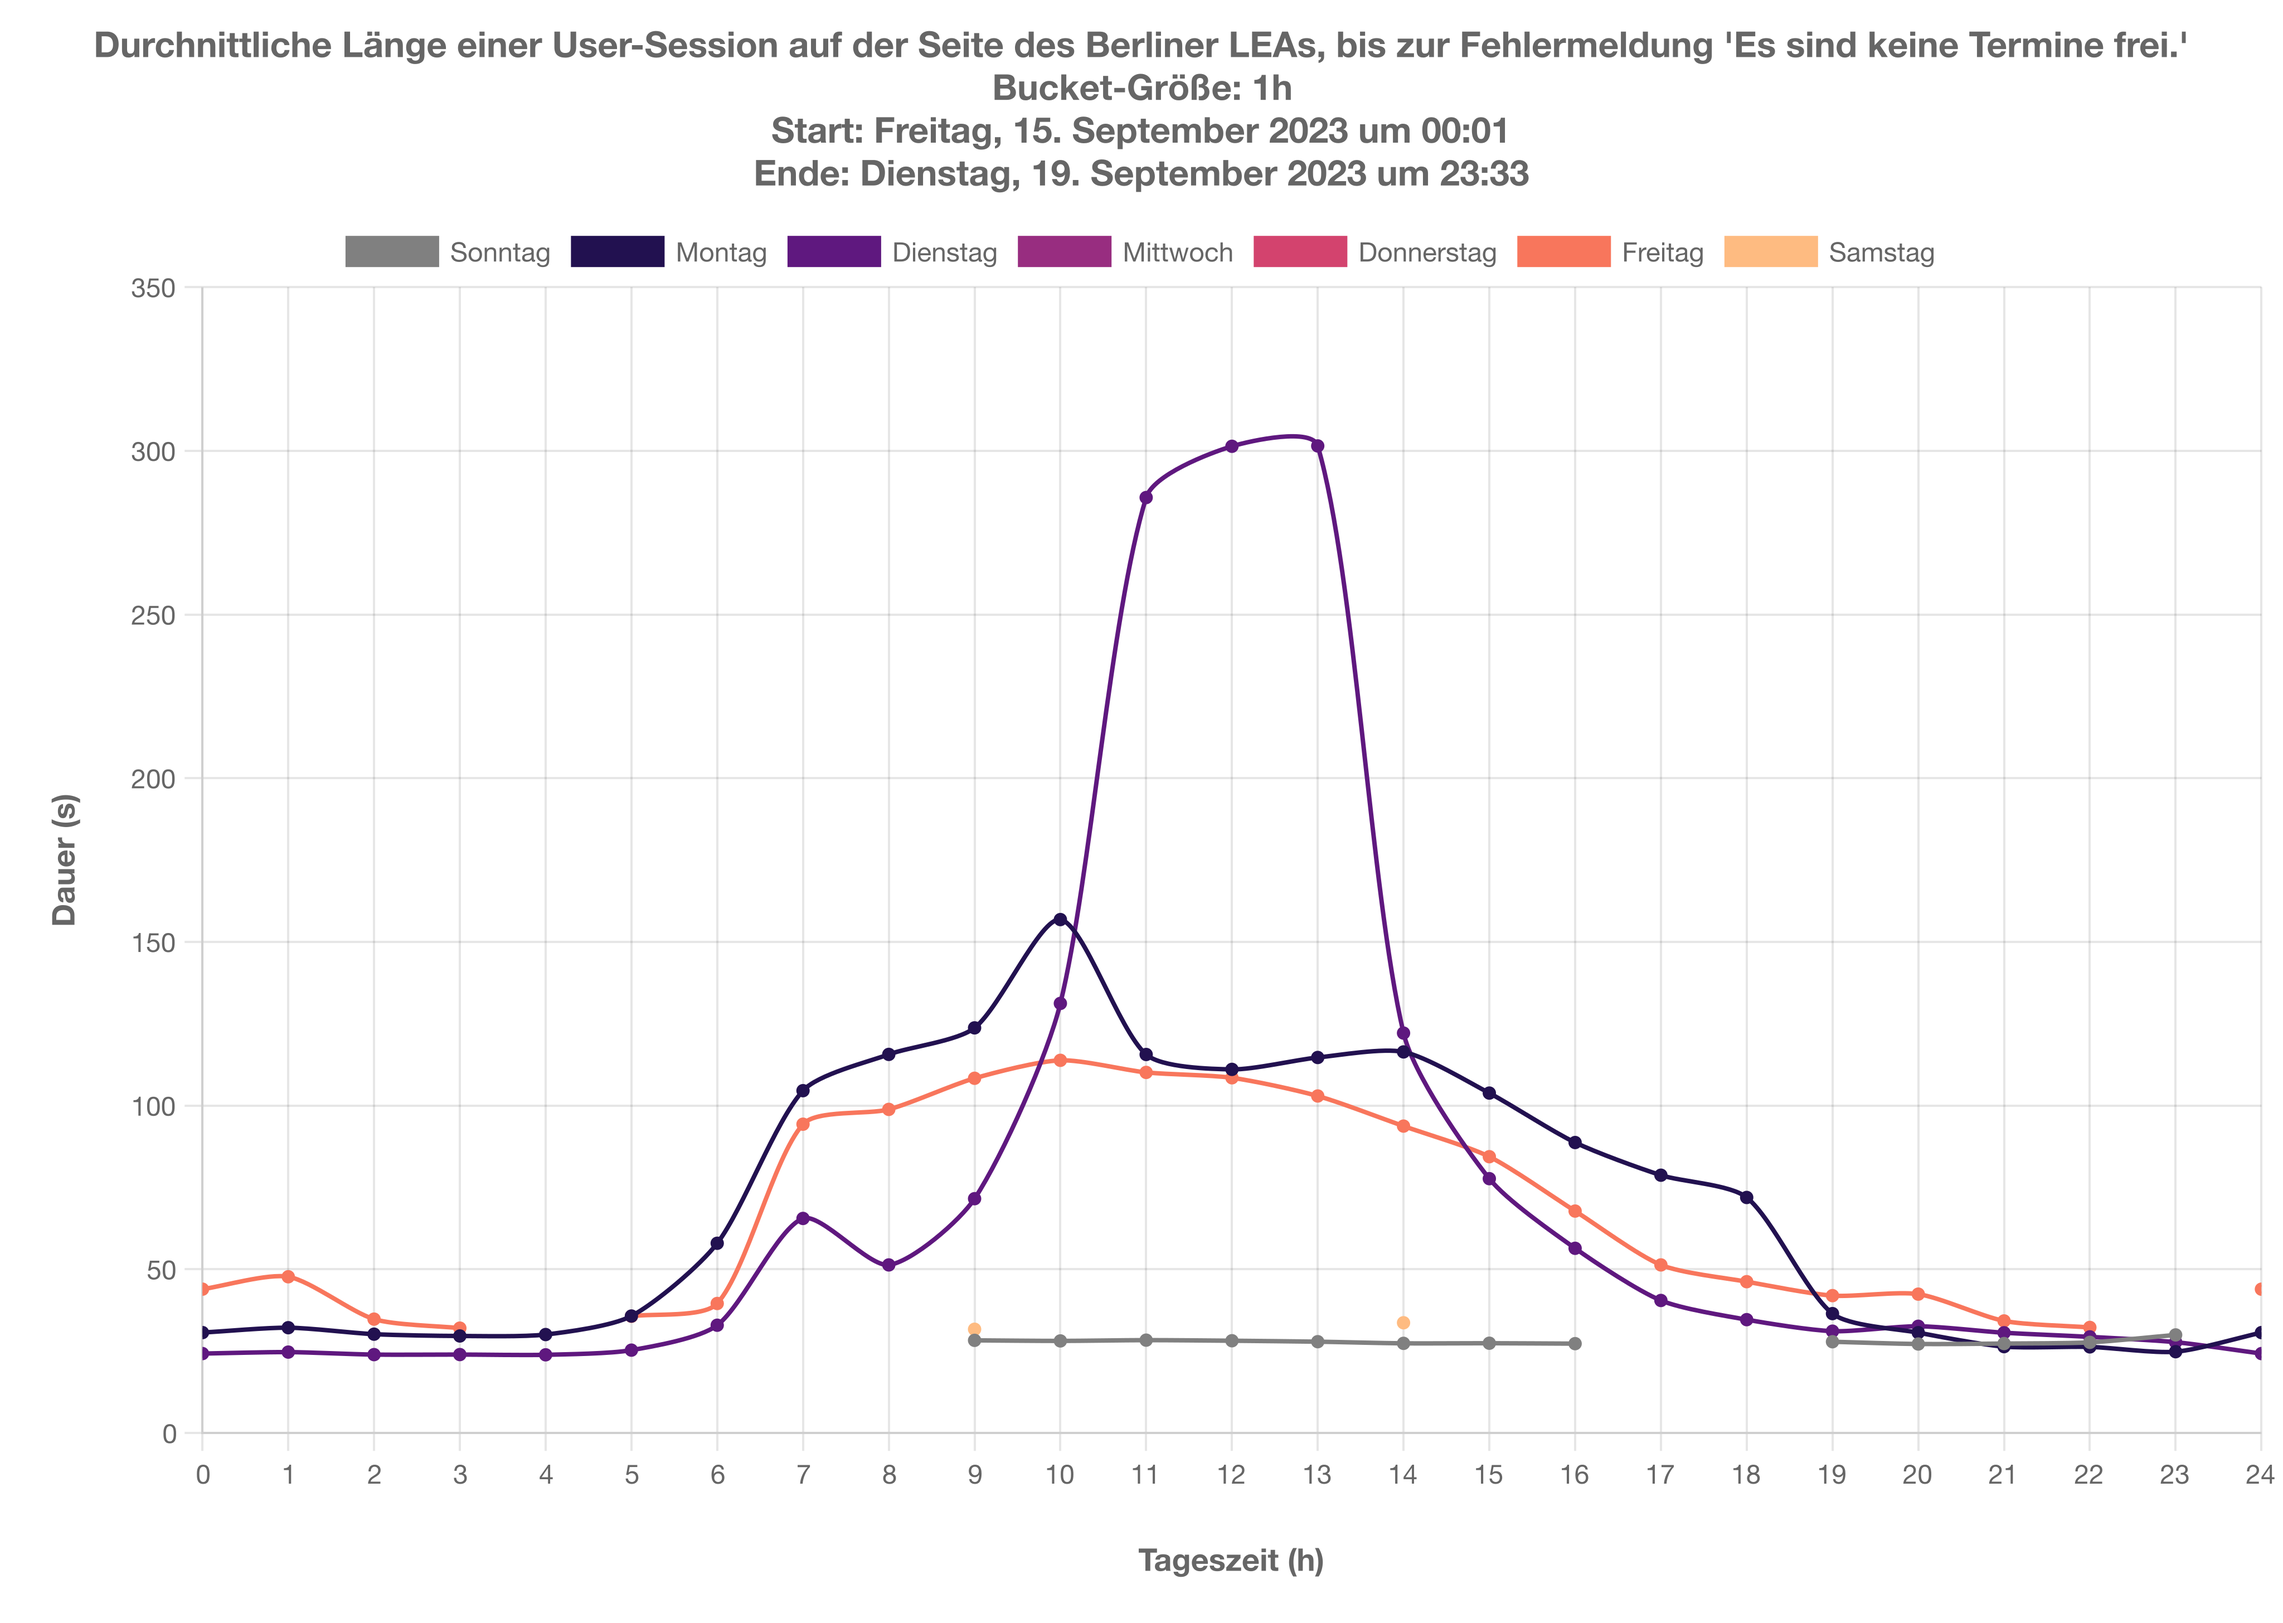
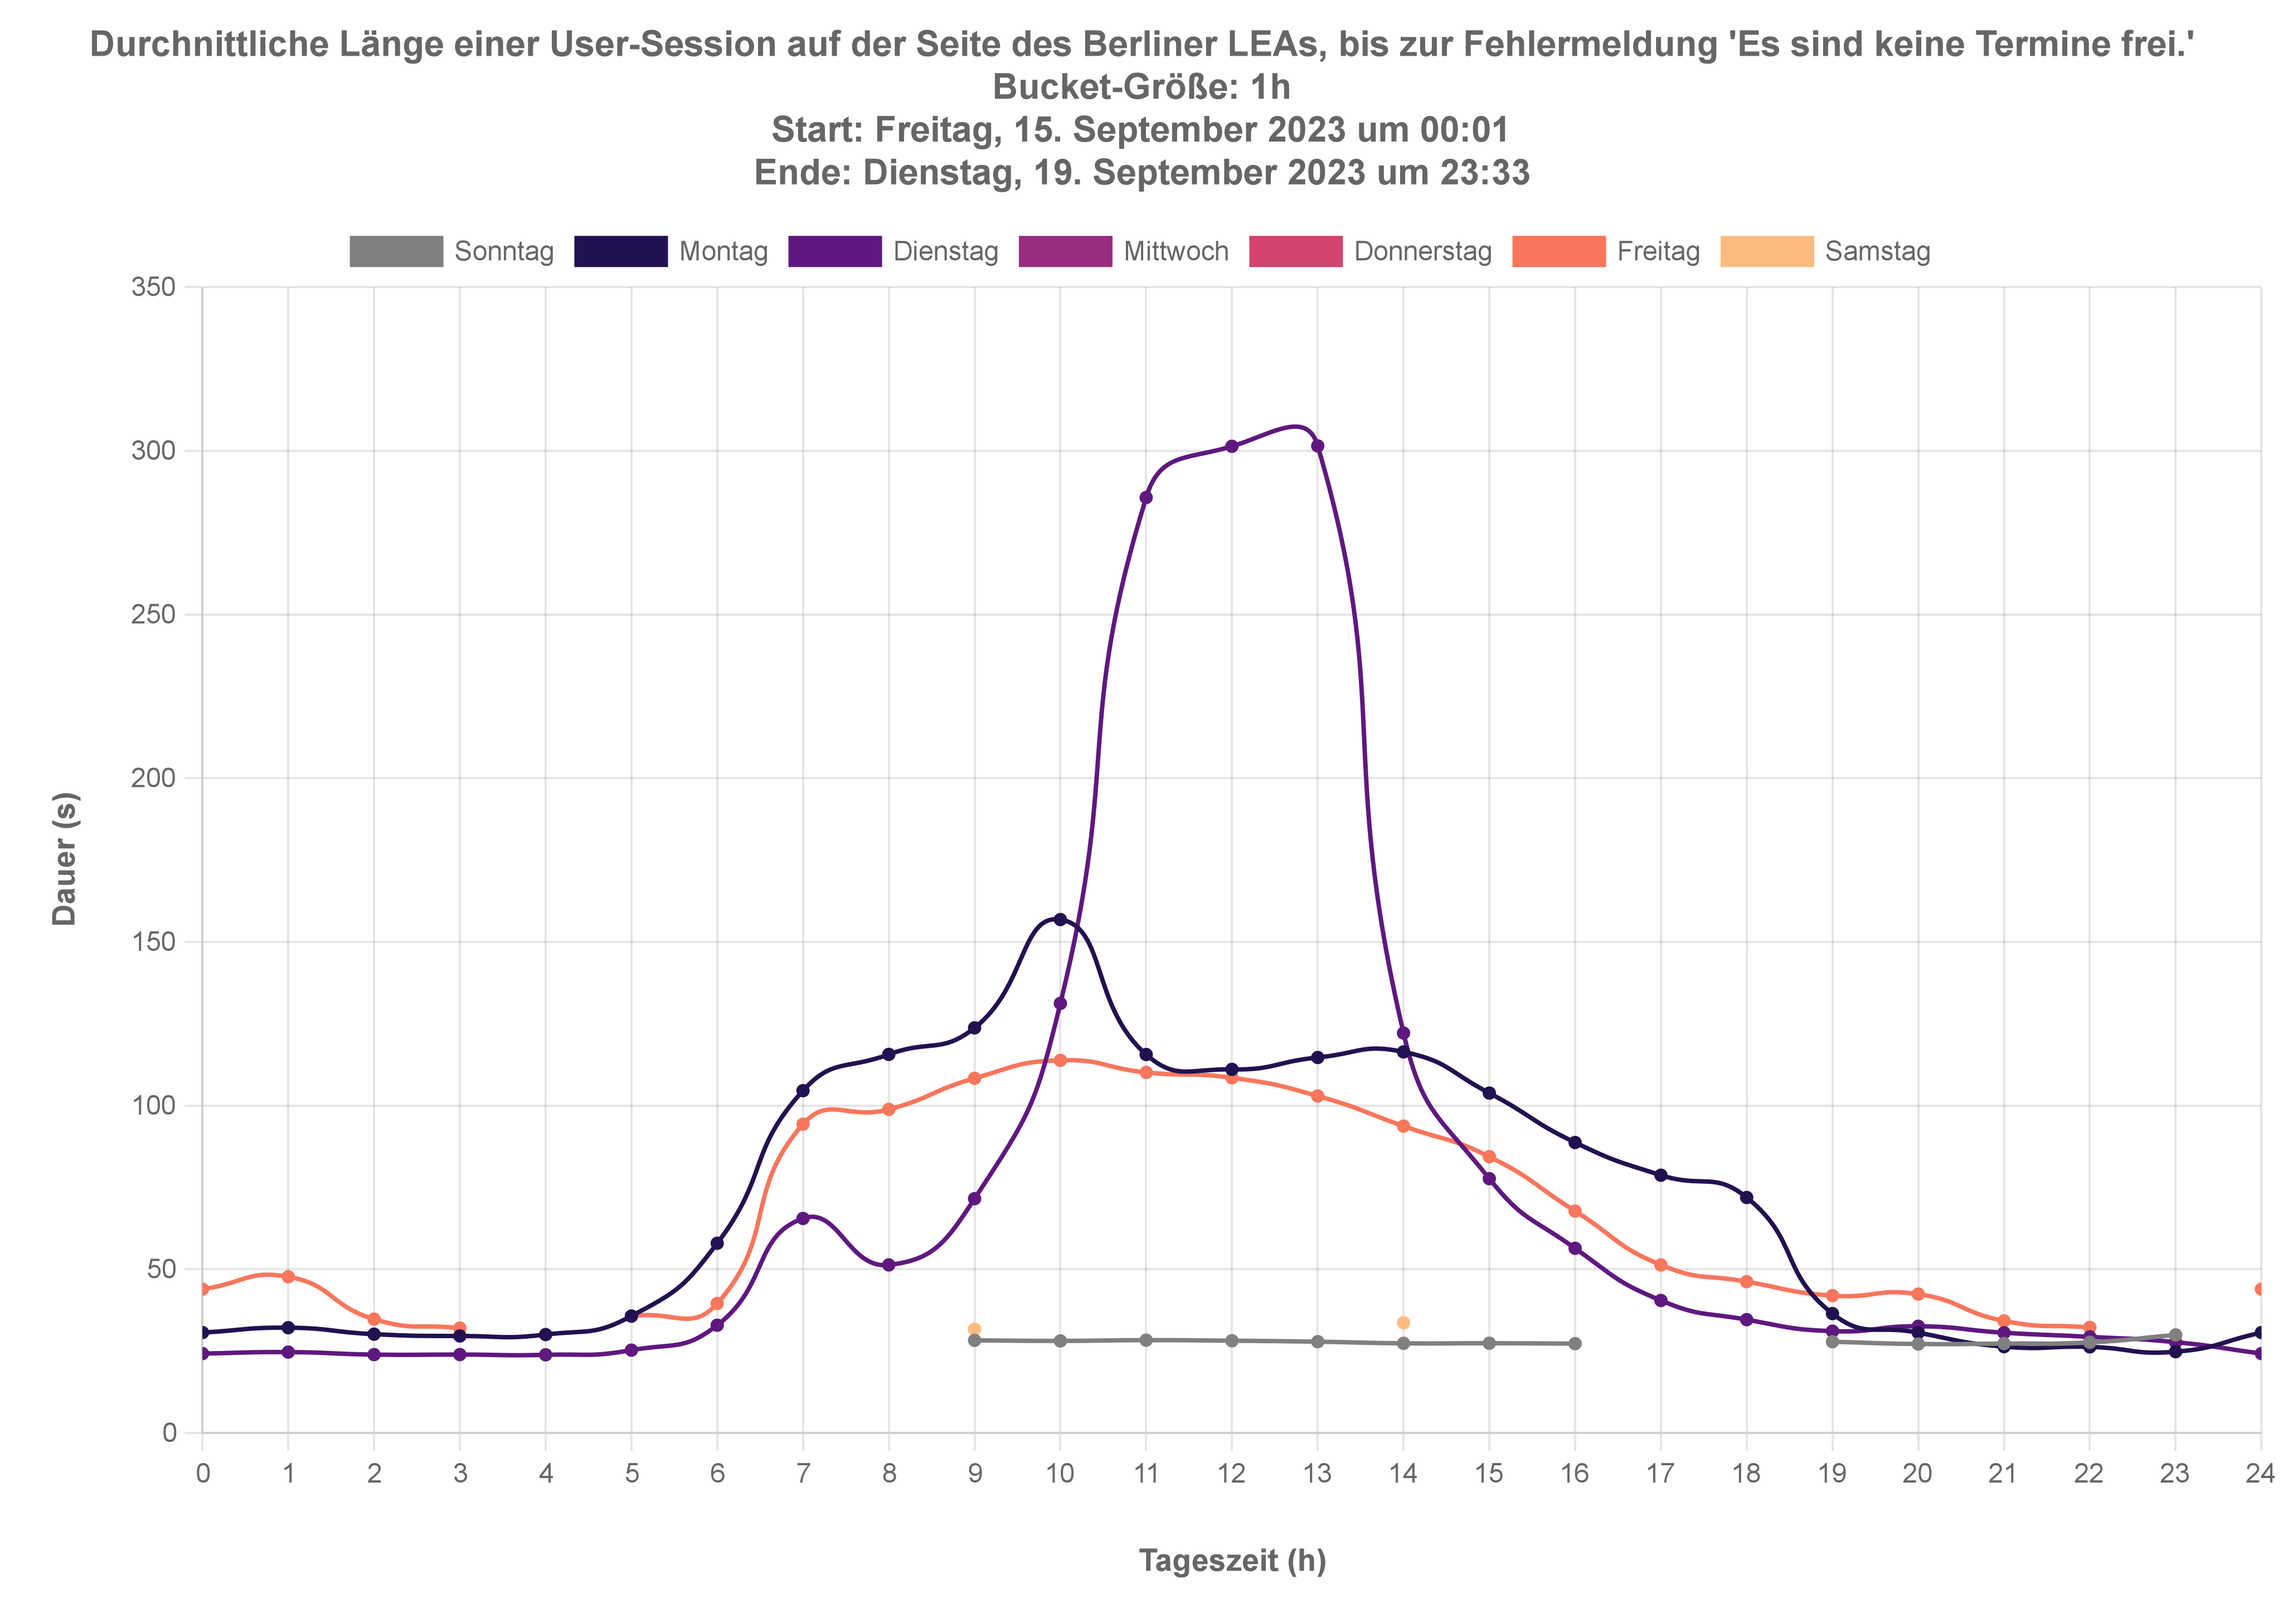
Line tension change.

diff --git a/src/models/graphs/Graph.ts b/src/models/graphs/Graph.ts
@@ -150,7 +150,7 @@ abstract class Graph<Data> {
             backgroundColor: color,
             pointRadius: 1,
             borderWidth: 1,
-            tension: 0.25,
+            tension: 0.5,
         };
     }
 }
